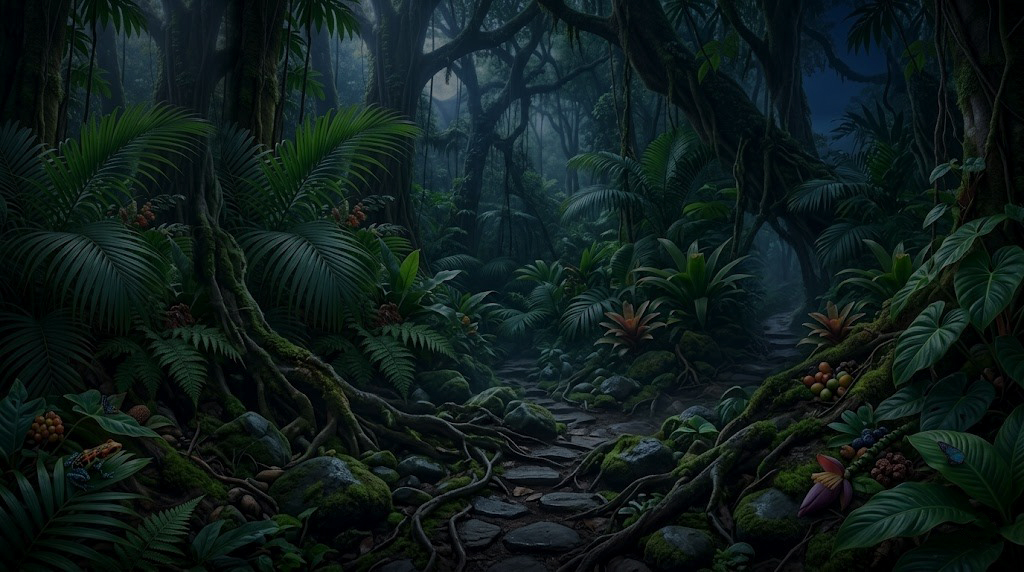
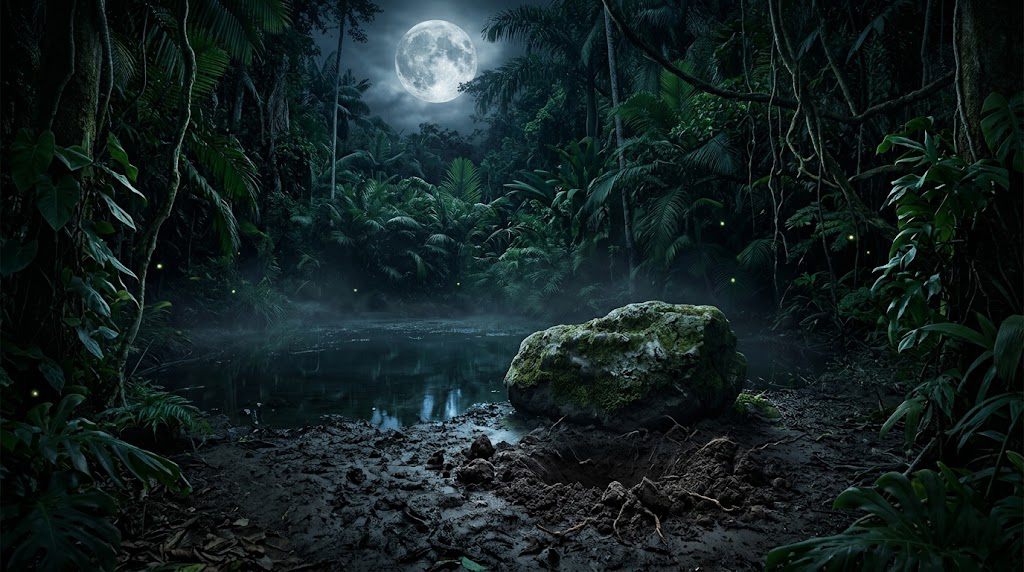
Add files via upload

diff --git a/sw.js b/sw.js
@@ -1,4 +1,2 @@
-const CACHE = 'reserve-v4';
-const ASSETS = ['/', '/index.html', '/manifest.json', '/jungle.jpg'];
-self.addEventListener('install', e => e.waitUntil(caches.open(CACHE).then(c => c.addAll(ASSETS))));
-self.addEventListener('fetch', e => e.respondWith(caches.match(e.request).then(r => r || fetch(e.request))));
+self.addEventListener('install', e => self.skipWaiting());
+self.addEventListener('activate', e => e.waitUntil(self.clients.claim()));
